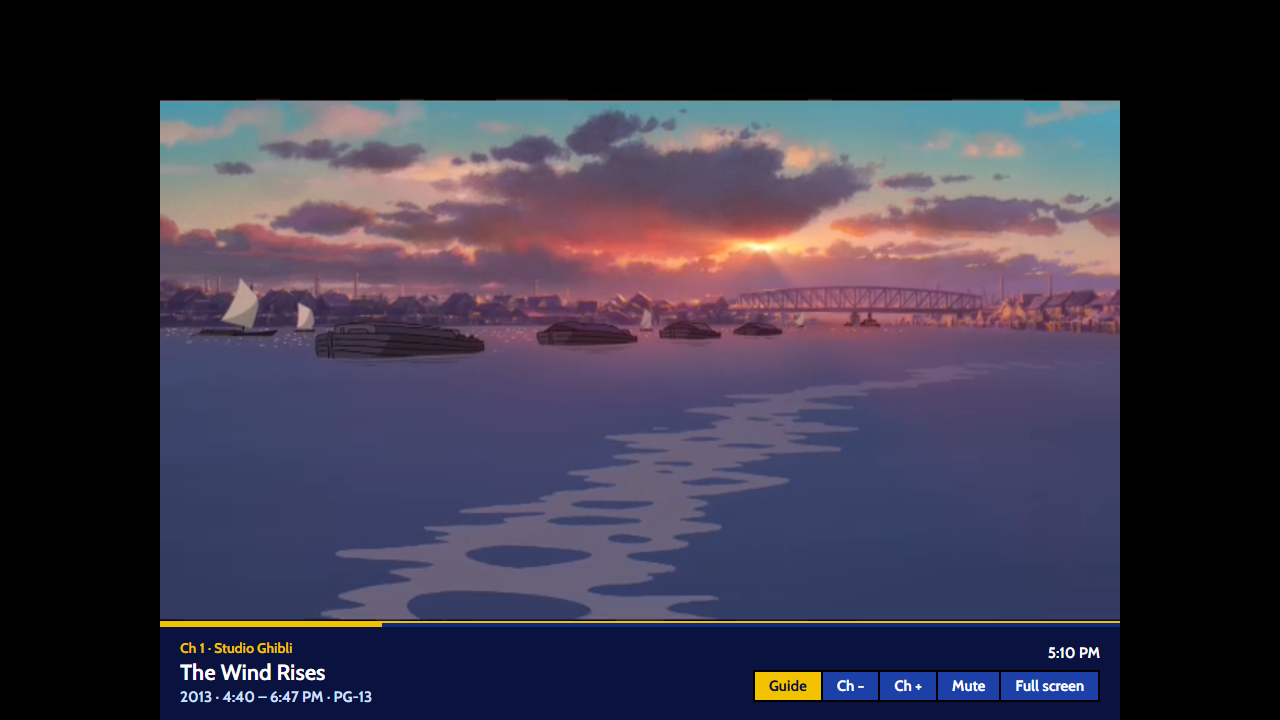
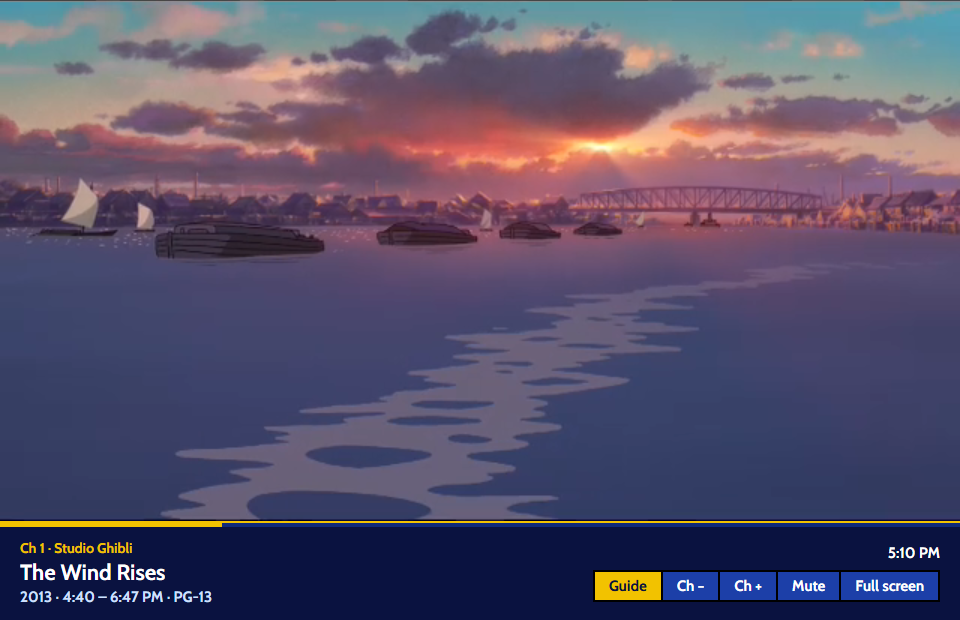
docs: the box page written for strangers; its build log moves to NOTES.md
pi-image/README.md now describes the box as something to build, not this
one in particular: generic hardware table, no dates or model names, the
first-boot lessons kept as "things that bit" with their fixes, a short
"not yet" list. Dates, margins for this set, parts on order and open items
live in pi-image/NOTES.md. Brand-specific lines on the home and Batocera
pages generalized the same way. The browser app's "watching" shot is
cropped to the picture and banner.

diff --git a/pi-image/README.md b/pi-image/README.md
@@ -1,4 +1,4 @@
-# Retro TV box: the Pi image
+# Retro TV box: a Pi that boots into the guide
 
 <p align="center">
   <a href="../README.md">Home</a> &nbsp;·&nbsp;
@@ -9,42 +9,42 @@
   <a href="../ersatztv/README.md">ErsatzTV channels</a>
 </p>
 
-A Raspberry Pi 4 that boots straight into the Retro TV guide on a CRT, with an IR remote. No
-Batocera, no Kodi: the box runs the browser viewer from `../docker/web/app` full screen, served by
-its own web server, with a boot splash in the chosen theme. This folder holds everything about
-that box: the design, the configuration, the script that builds it, and later the image recipe.
+A Raspberry Pi 4 that powers on into the Retro TV guide, full screen on a CRT, driven by an IR
+remote. No Batocera, no Kodi: the box runs the [browser viewer](../docker/README.md) from
+`docker/web/app`, served by its own web server, with a boot splash in the viewer's theme. This
+folder holds the design, the configuration, and the script that turns a stock Raspberry Pi OS
+Lite card into the box.
 
-**Status:** step 1 works. On 2026-11-07 a stock Pi OS Lite card plus `setup.sh` booted into the
-guide at 640×480 on the Sylvania through the HDMI converter, with no cursor and no phantom
-display. Still to check on the tube: the margins, the boot splash, the remote (receiver not
-here yet), sound. Decisions below are settled unless marked open.
+Where it stands: the script route (step 1, below) works on real hardware; the one-file image
+(step 2) is not built yet. The build log, with dates and what is still to be tested, is in
+[`NOTES.md`](NOTES.md).
 
 <table><tr><td align="center"><img src="../docs/img/readme/tv-guide-playing-cable.png" width="600"><br><sub>What the box shows: the guide at 640×480, a show playing in the box</sub></td><td align="center"><img src="../docs/img/readme/poe-hat.jpg" width="600"><br><sub>The official PoE+ HAT: one cable for power and network</sub></td></tr></table>
 
 <table><tr><td align="center"><img src="config/plymouth/retro-tv/splash-cable-640.png" width="400"><br><sub>Boot splash, Cable theme (640×480)</sub></td><td align="center"><img src="config/plymouth/retro-tv/splash-vapor-640.png" width="400"><br><sub>Boot splash, Vaporwave theme</sub></td></tr></table>
 
-## The box
+## Hardware
 
-| Part | What we have |
+| Part | What is needed |
 |---|---|
-| Computer | Raspberry Pi 4 Model B, 2 GB, with the official PoE+ HAT (power and network over one cable; its fan is run by the firmware) |
-| Card | 16 GB microSD (the system needs about 3 GB) |
-| Screen | 12-inch Sylvania CRT, composite input |
-| Video out | For now: HDMI at 640×480 into the HDMI-to-composite converter (same as the Trinitron). Later: the Pi's own composite jack, 720×480i, once the 4-pole cable arrives |
-| Remote | A Media Center (MCE) USB IR receiver (on order); a universal remote programmed for the Sylvania's power and volume and for the box |
-| Controller | PS5 pad over Bluetooth, optional |
-| Network | Wired, through the PoE switch; the ErsatzTV server is on the home network |
+| Computer | Raspberry Pi 4 Model B. 2 GB is plenty. Power over Ethernet with the official PoE+ HAT (one cable, and the firmware runs its fan), or an ordinary USB-C supply |
+| Card | A 16 GB microSD; the system needs about 3 GB |
+| Screen | Any CRT with a composite input. Any TV with HDMI also works, at 640×480 |
+| Video out | HDMI at 640×480 into an HDMI-to-composite converter (the same kind the [Batocera Pi](../pi/README.md) uses), or the Pi's own composite jack at 720×480i. One setting switches between them |
+| Remote | A "Windows Media Center" (MCE) USB IR receiver and any remote it understands; a universal remote can send power and volume to the TV and everything else to the box |
+| Controller | A Bluetooth game pad, optional |
+| Network | Wired, ideally from a PoE switch. The box needs to reach the ErsatzTV server |
 
 ## Decisions
 
 - **Base system: Raspberry Pi OS Lite, 64-bit** (current release). It has the Pi's video drivers,
   Chromium with hardware H.264 decoding, Plymouth, and `apt`. A fully custom Buildroot system was
-  considered and kept as a possible later step; Pi OS gets us there in days, not weeks.
+  considered and kept as a possible later step; Pi OS gets there in days, not weeks.
 - **The viewer runs on the box itself.** nginx serves `docker/web/app` and proxies `/iptv/` to
-  ErsatzTV, using the very same `docker/web/nginx.conf.template` as the laptop container (only
+  ErsatzTV, using the very same `docker/web/nginx.conf.template` as the Docker container (only
   the port and root differ). Reasons: the box never shows a browser error page (if the server is
   down, the guide's own "Can't reach the TV server" message appears, in the theme's style); no
-  dependency on the laptop being up; and the viewer's theme can be read by the box (below).
+  dependency on another machine being up; and the viewer's theme can be read by the box (below).
 - **Kiosk: `cage` + Chromium.** `cage` is a Wayland compositor that shows exactly one window, full
   screen, no desktop, no cursor. Chromium runs in kiosk mode with sound allowed from the start
   (the "press a key for sound" problem does not exist here) and its profile on a writable data
@@ -60,47 +60,47 @@ here yet), sound. Decisions below are settled unless marked open.
   the matching splash, so the *next* boot already matches. Anywhere else (laptop, phone) the
   request answers 404 and is ignored.
 - **Composite video from the Pi itself** is the end state: Pi OS can drive the 3.5 mm jack
-  (Batocera could not). The jack also carries the sound. Until the cable arrives, HDMI at
-  640×480 through the converter, exactly like the Trinitron setup, with the same kind of
-  kernel margin settings for overscan. Switching between the two is one line in the box's
-  config file.
+  (Batocera cannot). The jack also carries the sound. The alternative is HDMI at 640×480 through
+  a converter, exactly like the Batocera Pi's CRT profile, with the same kind of kernel margin
+  settings for overscan. Switching between the two is one line in the box's config file.
 - **IR: a USB MCE receiver, decoded by Linux.** The kernel's `mceusb` driver decodes the remote;
-  a key map of ours (`config/rc_keymaps/retro-tv-mce.toml`) turns its buttons into the plain
-  keyboard keys the viewer already understands (arrows, Enter, Escape, Page Up/Down, digits,
-  I, S, M, R). No wiring, no soldering, and the receiver can sit on top of the TV. The official
-  PoE+ HAT covers the GPIO header, which is why a USB receiver rather than a 3-wire module.
-  Many MCE receivers also have IR *emitter* jacks: a later step can let the box switch the TV
-  on and off itself.
+  a key map (`config/rc_keymaps/retro-tv-mce.toml`) turns its buttons into the plain keyboard
+  keys the viewer already understands (arrows, Enter, Escape, Page Up/Down, digits, I, S, M, R).
+  No wiring, no soldering, and the receiver can sit on top of the TV. The PoE+ HAT covers the
+  GPIO header, which is why a USB receiver rather than a 3-wire module. Many MCE receivers also
+  have IR *emitter* jacks: a later step can let the box switch the TV on and off itself.
 - **TV power and volume stay with the TV.** A universal remote with "punch-through" sends power
-  and volume to the Sylvania and everything else to the box. The box's own power button on the
-  remote is for later (blank the picture, stop the stream); the Pi cannot be switched on by IR.
-  Power from fully off: the PoE switch's port (if it is managed) or the plug.
-- **Read-only system, writable data.** The root filesystem is mounted read-only with an overlay,
-  so pulling the plug can never corrupt the card. A separate writable area (`/data`) holds the
-  Chromium profile (the viewer's settings), the theme choice, Bluetooth pairings and logs.
+  and volume to the TV and everything else to the box. The box's own power button on the remote
+  is for later (blank the picture, stop the stream); the Pi cannot be switched on by IR. Power
+  from fully off: the PoE switch's port (if it is managed) or the plug.
+- **Read-only system, writable data** (planned for step 2). The root filesystem is mounted
+  read-only with an overlay, so pulling the plug can never corrupt the card. A separate writable
+  area (`/data`) holds the Chromium profile (the viewer's settings), the theme choice, Bluetooth
+  pairings and logs.
 - **Tailscale is optional, off by default.** With it on, and a subnet route for the home network
   advertised by something at home, the box works anywhere with ordinary Wi-Fi or a hotspot (not
   behind a hotel sign-in page: there is no browser to click through).
 - **Two build steps.** First a provisioning script (`setup.sh`) that turns a stock Pi OS Lite card
-  into the box, so every piece can be tried on the real Pi and CRT. Then `pi-gen` wraps that same
+  into the box, so every piece can be tried on a real Pi and CRT. Then `pi-gen` wraps that same
   script into a flashable image: write it to a card and the box is finished.
 
 ## How it starts
 
-1. Power (PoE) → firmware → kernel. Boot text is hidden; Plymouth draws the theme's splash.
+1. Power → firmware → kernel. Boot text is hidden; Plymouth draws the theme's splash.
 2. nginx starts with the viewer and the ErsatzTV proxy. The theme service starts.
 3. `cage` starts on the console as user `tv` and launches Chromium in kiosk mode on the viewer.
 4. The viewer shows its own animated splash while it loads the listings, then the guide.
 5. The IR receiver's key map is loaded when the receiver is seen (`ir-keytable`), so the remote
    works from the first screen.
 
-About 20–25 seconds from power to guide on a Pi 4, to be measured.
+About 25 seconds from power to SSH on a Pi 4; the guide follows a few seconds later.
 
 ## Files
 
 ```
 pi-image/
-├── README.md                      this file
+├── README.md                      this page
+├── NOTES.md                       build log: what was tested when, open items
 ├── setup.sh                       turns a fresh Pi OS Lite into the box; run again after changes
 └── config/
     ├── retro-tv.env.example       the box's settings: server address, display mode, margins, Tailscale
@@ -121,38 +121,42 @@ the Roku app's icons, from `docker/web/app/js/splash.js`. Re-run it when the sce
 ## Building the box, step 1: a stock card plus `setup.sh`
 
 1. **Flash** Raspberry Pi OS Lite (64-bit) with Raspberry Pi Imager. In its settings: hostname
-   `retro-tv`, user `tv` with a password of your choice, SSH on with public-key login only, and
-   paste the public key for the box (kept out of the repo; the private half lives on the
-   maintainer's PC). Wi-Fi is not needed on PoE.
-2. **Boot** it on the network, then from the PC: `ssh tv@retro-tv.local`.
-3. **Get the repo** onto it (`git clone` of the GitHub repo, or `rsync` from the PC) and run
+   `retro-tv`, a user with a password of your choice, SSH on with public-key login only, and your
+   SSH public key. Wi-Fi is not needed on a wired network.
+2. **Boot** it on the network, then `ssh <user>@retro-tv.local`. If the user Imager created has
+   no passwordless `sudo`, add a line for it under `/etc/sudoers.d/`; `setup.sh` needs root.
+3. **Get the repo** onto it (`git clone`, or `rsync` from another machine) and run
    `sudo pi-image/setup.sh`. The first run copies `config/retro-tv.env.example` to
    `/etc/retro-tv.env` and stops so you can fill in the ErsatzTV address and the display mode;
    run it again and it does everything else, then reboots into the guide.
-4. **Tune the picture** on the CRT with the margins in `/etc/retro-tv.env` (a bigger number
-   pulls the picture in from that edge), `sudo pi-image/setup.sh`, reboot.
+4. **Tune the picture** on the CRT. Set `PAGE=overscan` in `/etc/retro-tv.env`, run
+   `sudo pi-image/setup.sh` and reboot: the viewer shows a test pattern with a white frame at
+   the edge. Adjust the margins in the same file (a bigger number pulls the picture in from that
+   edge) until the frame is just visible on every side, then set `PAGE=guide`. Margins take a
+   reboot; the page only `systemctl restart retro-tv`. As a starting point, a 12-inch set
+   through a converter needed left 19, right 21, top 10, bottom 6.
 
 `setup.sh` is written to be safe to run repeatedly: it installs what is missing, rewrites the
-files it owns, and leaves the rest alone.
+files it owns, and leaves the rest alone. A full install takes about 4 minutes.
 
 ## Step 2: the image (`pi-gen`)
 
-Later. A `pi-gen` stage that runs `setup.sh` inside the image build, plus the read-only overlay
-and the `/data` partition, produces `retro-tv-<date>.img.xz`. Building needs a Linux machine
-(the Garuda laptop, or WSL on the PC) and about 30 minutes. Until then, step 1 gives a working
-box, just not a one-file one.
+Not built yet. A `pi-gen` stage that runs `setup.sh` inside the image build, plus the read-only
+overlay and the `/data` partition, produces `retro-tv-<date>.img.xz`. Building needs a Linux
+machine (or WSL) and about 30 minutes. Until then, step 1 gives a working box, just not a
+one-file one.
 
 ## Display details
 
-- **HDMI 640×480 (now):** `video=HDMI-A-1:640x480@60D` on the kernel command line plus the
-  margins (`margin_left=…` and so on), the same mechanism the Trinitron uses. The converter
-  makes 480i from it.
-- **Composite (later):** `dtoverlay=vc4-kms-v3d,composite` and `enable_tvout=1` in
-  `config.txt`, and `video=Composite-1:720x480@60ie` on the command line (NTSC). The picture is
-  720×480 with non-square pixels; the viewer's `?tv` layout is 640×480 and is stretched to fit,
-  which is what a 4:3 CRT expects. Margins work the same way.
-- The 12-inch tube is small: text that reads fine on the 19-inch Trinitron may need a size
-  bump. The viewer's design units make that a CSS change.
+- **HDMI 640×480:** `video=HDMI-A-1:640x480@60` on the kernel command line plus the margins
+  (`margin_left=…` and so on), the same mechanism as the Batocera Pi's CRT profile. The
+  converter makes 480i from it. The mode is also given for `HDMI-A-2`, so either port works.
+- **Composite:** `dtoverlay=vc4-kms-v3d,composite` and `enable_tvout=1` in `config.txt`, and
+  `video=Composite-1:720x480@60ie` on the command line (NTSC). The picture is 720×480 with
+  non-square pixels; the viewer's `?tv` layout is 640×480 and is stretched to fit, which is what
+  a 4:3 CRT expects. Margins work the same way.
+- On a small tube (12 inches) the guide's text is on the small side; the viewer's design units
+  make a size bump a CSS change.
 
 ## The remote
 
@@ -165,52 +169,42 @@ box, just not a one-file one.
   to the TV. `ir-keytable` loads it through `/etc/rc_maps.cfg` whenever the receiver appears.
 - **Any other remote** can be used once its codes are known: `ir-keytable -t` prints what the
   receiver sees while you press buttons, and the map is a text file.
-- **Universal remote:** program the TV device with the Sylvania's codes and the box as a
+- **Universal remote:** program the TV device with the TV's codes and the box as a
   "Media Center PC" (or learn the MCE remote's codes), with volume and power punched through to
   the TV.
 
-## Learned on the first boot
+## Things that bit, and their fixes
 
-- **Pi OS Lite is Debian 13 (Trixie)** here; the packages are `chromium` and `cage` (0.3.1, a
-  Raspberry Pi build), both in the standard repository. The whole install takes about 4 minutes.
+Each of these is handled by `setup.sh` or the kiosk script now; they are listed so the reasons
+survive.
+
 - **The compositor picks the display's preferred mode, not the kernel's.** `cage` (wlroots)
-  started the converter at its preferred 1280×720 whatever `video=` said. The kiosk script
-  now sets the mode from inside the session with `wlr-randr` before starting Chromium; the
-  kernel line still carries the mode and the margins (the margins are connector properties the
-  compositor leaves alone).
+  started the converter at its preferred 1280×720 whatever `video=` said. The kiosk script sets
+  the mode from inside the session with `wlr-randr` before starting Chromium; the kernel line
+  still carries the mode and the margins (the margins are connector properties the compositor
+  leaves alone).
 - **Never write `@60D` in `video=`.** The `D` suffix means "force this connector on". With it,
-  the empty HDMI port 1 became a phantom 1024×768 display, and `cage` spread the screen across
-  both. Plain `@60`, and the mode is given for both HDMI ports so either one can be used. The
-  same goes for `hdmi_force_hotplug=1`, which is not needed: the converter presents an EDID.
+  the empty second HDMI port became a phantom 1024×768 display and `cage` spread the screen
+  across both. Plain `@60`, given for both ports. The same goes for `hdmi_force_hotplug=1`,
+  which is not needed: the converter presents an EDID.
 - **The CEC devices are the "mouse".** Each HDMI port has a CEC remote-control input that
   libinput classes as keyboard + pointer, and a pointer makes `cage` draw a cursor in the middle
   of the screen. A udev rule hides them (and game pads) from libinput; with no input devices
   left, wlroots refuses to start unless `WLR_LIBINPUT_NO_DEVICES=1` is set, so the service sets
   it. The viewer also hides the pointer in `?tv` mode.
-- **Imager's user has no passwordless `sudo` on this image.** A line in `/etc/sudoers.d/` gives
-  it, as every stock Pi OS has; `setup.sh` needs root.
-- **Boot to SSH is about 25 s.**
-- **Margins on the 12-inch Sylvania through the converter: left 19, right 21, top 10,
-  bottom 6** (the Trinitron's were 13/27/0/20). Tuned with the test pattern: `PAGE=overscan` in
-  `/etc/retro-tv.env`, `sudo pi-image/setup.sh`, reboot, and adjust until the white 0 px frame
-  is just visible on every side; then `PAGE=guide`. The margins take a reboot; the page only a
-  `systemctl restart retro-tv`.
 - **Sound defaulted to the headphone jack.** PipeWire picks the 3.5 mm jack as the default
-  output, so the converter got silence. The kiosk script now makes the HDMI output the default
-  at full volume (the jack in composite mode, where it carries the sound).
+  output, so HDMI got silence. The kiosk script makes the HDMI output the default at full volume
+  (the jack in composite mode, where it carries the sound).
 
-## Open items
+## Not yet
 
-- Confirm sound through the converter while a channel plays; the boot splash; the IR receiver
-  when it arrives.
-- Whether Plymouth on Pi OS runs from the initramfs (then a theme change also regenerates it in
-  the background, which the theme service already does if it finds one).
-- A "standby" action for the remote's power button: blank the picture and stop the stream, in
-  the viewer. Needs a small viewer change.
-- The box controlling the TV through an IR emitter (power on with the box, off at standby).
-- Tailscale: install, sign in from a phone, accept the home subnet route; a settings-screen
-  switch for it would need the box to expose a second local endpoint like `/pi/theme`.
-- Font sizes on the 12-inch tube.
+- The Pi's own composite output and the IR receiver have not been tried on hardware.
+- A "standby" action for the remote's power button (blank the picture, stop the stream) needs a
+  small viewer change.
+- The box controlling the TV through an IR emitter.
+- Tailscale: a settings-screen switch for it would need a second local endpoint like
+  `/pi/theme`.
+- Step 2, the image.
 
 ## Conventions
 

diff --git a/README.md b/README.md
@@ -31,7 +31,7 @@ the channels; several small boxes and apps tune in.
   Kodi, retro      Pi 4 that boots   Docker container   SceneGraph       mpv, VLC …
   guide skin,      straight into     with the guide,    channel for a
   1,075 games,     the guide on a    open it on a       Roku on the
-  Sony Trinitron   12" Sylvania CRT  laptop or phone    home network
+  Sony Trinitron   12-inch CRT       laptop or phone    home network
 ```
 
 | Piece | What it is | Start here |
@@ -58,7 +58,7 @@ read-only `/iptv/` paths get through.
 |---|---|
 | Server | A Linux box with an NVIDIA GPU running ErsatzTV (k3s here; Docker Compose works too) |
 | Batocera Pi | Raspberry Pi 4 (8 GB), Argon ONE M.2 case, 1 TB SSD, PS5 DualSense, Sony Trinitron KV-19TR20 through a Dingsun HDMI-to-composite converter |
-| Retro TV box | Raspberry Pi 4 (2 GB), official PoE+ HAT, 16 GB card, 12-inch Sylvania CRT through the same kind of converter (the Pi's own composite jack later), MCE USB IR receiver |
+| Retro TV box | Raspberry Pi 4 (2 GB), official PoE+ HAT, 16 GB card, a 12-inch CRT with composite input through the same kind of converter (or the Pi's own composite jack), MCE USB IR receiver |
 | Elsewhere | A laptop running the browser app in Docker behind [Gantry](https://github.com/awall451/gantry), a Roku, phones |
 
 ## Repo map
@@ -71,11 +71,11 @@ read-only `/iptv/` paths get through.
 | `pi/scripts/` | Batocera launch hooks (`/userdata/system/scripts/`) |
 | `pi/shaders/` | Shader sets and the Trinitron CRT presets |
 | `pi/snapshots/` | Sanitized copies of the Batocera Pi's config files |
-| `tools/` | Scripts run from the PC or copied to the Pi: flashing, importing a game library, BIOS check, shader benchmarks |
+| `tools/` | Scripts run from a PC or copied to the Pi: flashing, importing a game library, BIOS check, shader benchmarks |
 | `tools/render-splash/` | Renders the viewer's splash scenes to PNG for the Roku app and the box's boot screen |
 | `docker/` | The browser app (Docker Compose) |
 | `roku-tv/` | The Roku app |
-| `pi-image/` | The Retro TV box: design, config, `setup.sh`, boot splash, IR key map |
+| `pi-image/` | The Retro TV box: design, config, `setup.sh`, boot splash, IR key map, build log |
 | `ersatztv/` | How the channels are built, and the commercials |
 
 ## Conventions

diff --git a/pi-image/NOTES.md b/pi-image/NOTES.md
@@ -1,0 +1,38 @@
+# Retro TV box: build log
+
+Working notes for this particular box, kept apart from the [README](README.md) so that page
+stays a description anyone can use. Newest first.
+
+## 2026-11-07: first boot
+
+- A stock Raspberry Pi OS Lite card (Debian 13, Trixie) plus `setup.sh` booted into the guide at
+  640×480 on the 12-inch set, through the HDMI-to-composite converter borrowed from the Batocera
+  Pi. No cursor, no phantom display. Picture and sound confirmed on the tube.
+- Packages in the standard repository: `chromium`, `cage` 0.3.1 (a Raspberry Pi build). The
+  whole install took about 4 minutes; boot to SSH is about 25 s.
+- Margins on this set through the converter: left 19, right 21, top 10, bottom 6 (the
+  Trinitron's on the Batocera Pi are 13/27/0/20). Tuned with `PAGE=overscan`.
+- Imager's user had no passwordless `sudo` on this image; added by hand under `/etc/sudoers.d/`.
+- Sound first came out of the headphone jack (PipeWire's default); the kiosk script now selects
+  HDMI.
+- Everything under "Things that bit" in the README was found on this boot.
+
+## Hardware in this build
+
+- Pi 4 Model B, 2 GB, official PoE+ HAT, 16 GB card, wired through the PoE switch.
+- 12-inch CRT with composite input, fed by the converter for now (shared with the Batocera Pi,
+  so only one of the two is on the tube at a time).
+- 4-pole 3.5 mm composite cable and the MCE USB IR receiver: on order.
+- Universal remote to be programmed for the TV's power and volume and for the box.
+
+## Open items
+
+- Plymouth boot splash: not yet confirmed on the tube (seen over HDMI only).
+- The Pi's composite output (720×480i) when the cable arrives: mode line, margins, sound on the
+  jack.
+- The IR receiver when it arrives: `ir-keytable -t` to check the codes, then the key map.
+- Whether Plymouth on Pi OS runs from the initramfs (then a theme change also regenerates it in
+  the background, which the theme service already does if it finds one).
+- Standby action, IR emitter to the TV, Tailscale sign-in, font sizes on the 12-inch tube: see
+  "Not yet" in the README.
+- Step 2 (`pi-gen`): build machine is a Linux laptop or WSL.

diff --git a/pi/README.md b/pi/README.md
@@ -43,7 +43,7 @@ the whole setup can be rebuilt from a blank card.
   shaders, overscan margins and a CRT-legible menu. Either profile gives a picture on either TV.
 - Kodi with the live channels (ErsatzTV on the home server) and on-demand Plex (PM4K), both
   following the active display profile.
-- Storage on a 1 TB SSD, SSH from the PC by key, an Argon ONE case with its fan service on.
+- Storage on a 1 TB SSD, SSH by key, an Argon ONE case with its fan service on.
 
 ## Hardware
 
